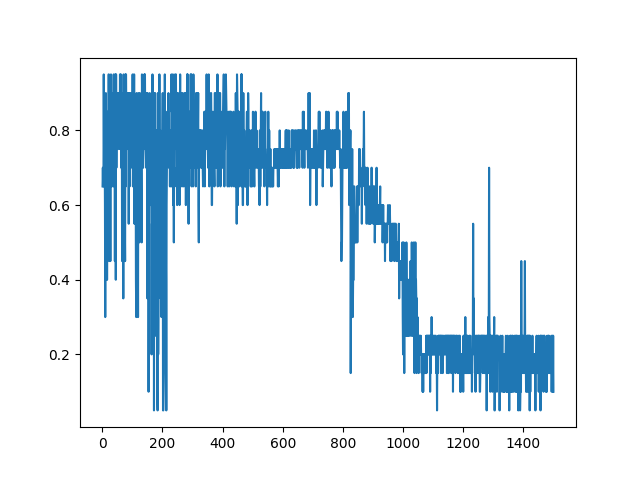
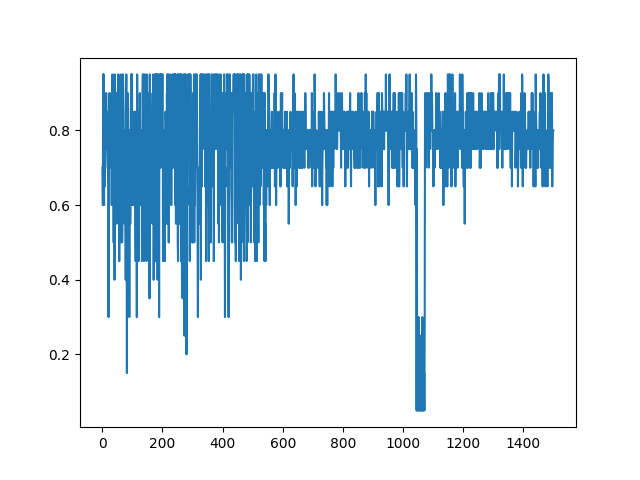
adjust init state

Changed region(s): [[0.1562, 0.125, 0.875, 0.875]]

diff --git a/rl/main_gov.py b/rl/main_gov.py
@@ -11,16 +11,16 @@ from rl.utils import plot_learning_curve
 import torch
 
 # show logging level at info
-logging.basicConfig(level=logging.INFO)
+logging.basicConfig(level=logging.DEBUG)
 
 if __name__ == "__main__":
     # initialize environment
     defi_env = DefiEnv(prices=PriceDict({"tkn": 1}))
-    Alice = User(name="alice", env=defi_env, funds_available={"tkn": 2_000})
+    Alice = User(name="alice", env=defi_env, funds_available={"tkn": 1_000_000})
     plf = PlfPool(
         env=defi_env,
         initiator=Alice,
-        initial_starting_funds=1000,
+        initial_starting_funds=300_000,
         asset_name="tkn",
         collateral_factor=0.8,
     )
